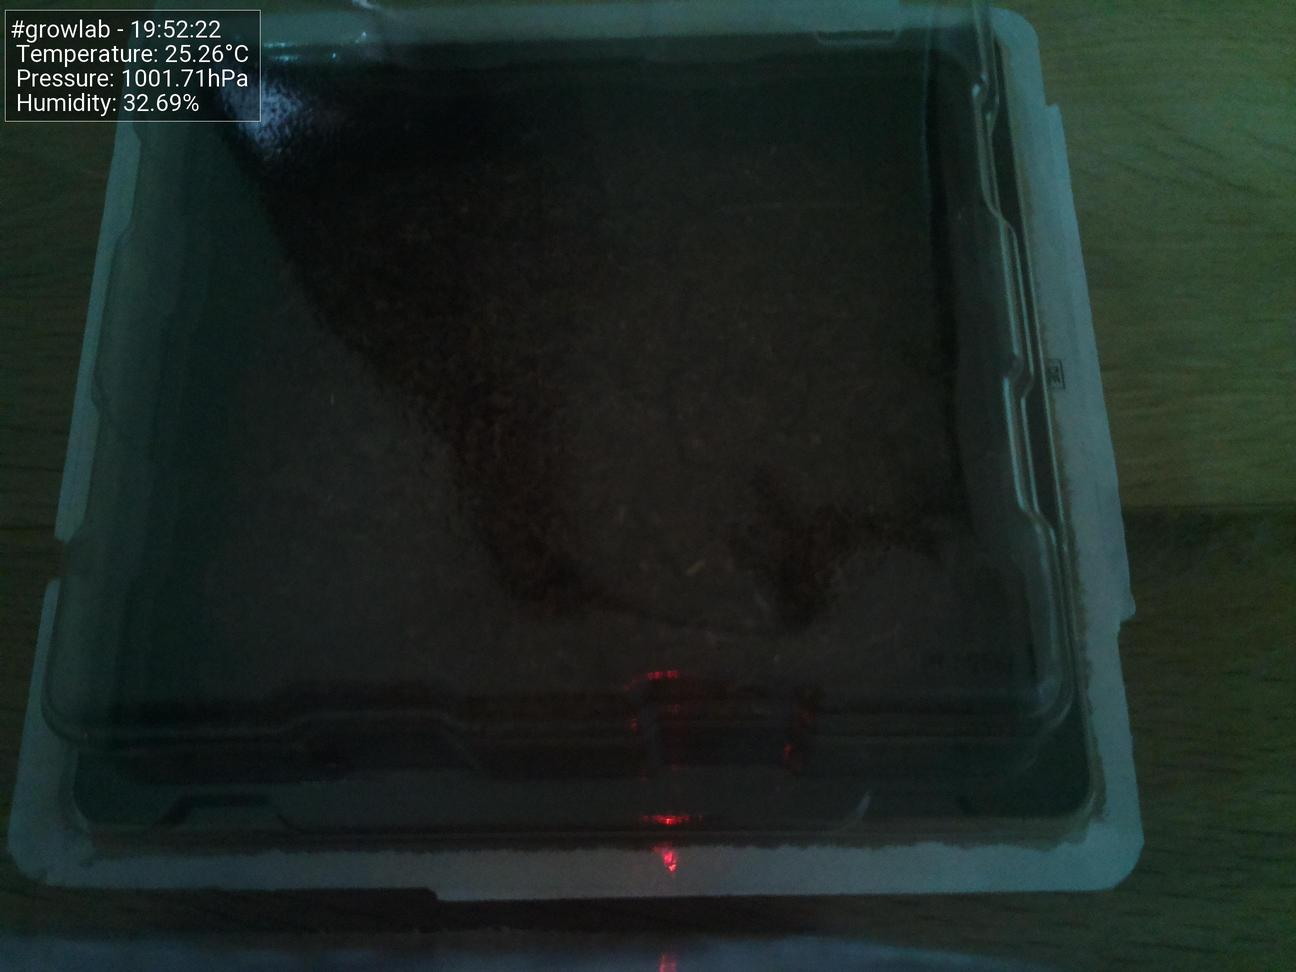
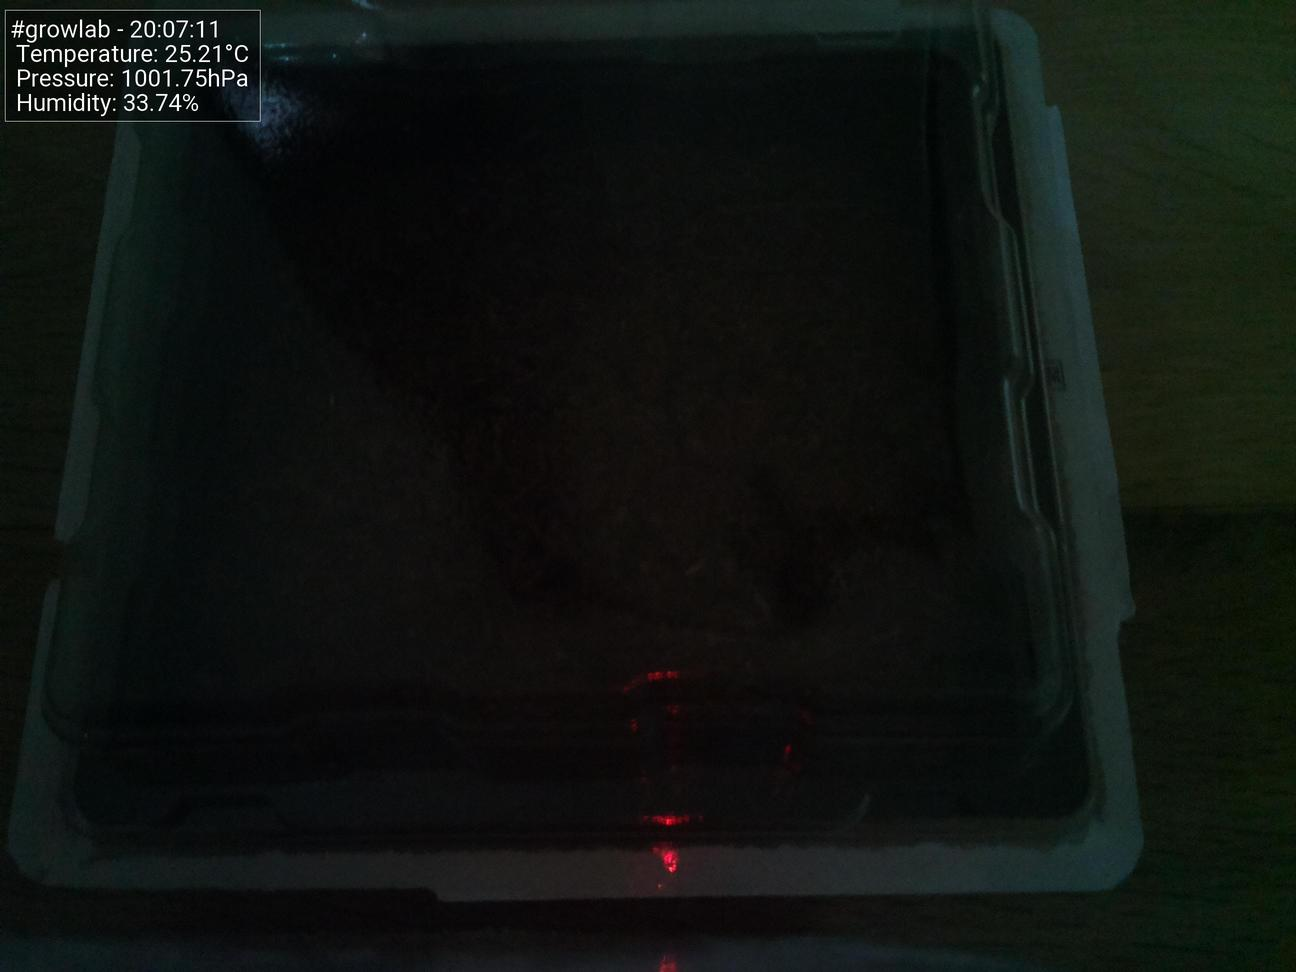
Update images at Tue 25 May 20:07:15 BST 2021

Changed region(s): [[0.0, 0.0, 1.0, 1.0]]

diff --git a/docs/index.html b/docs/index.html
@@ -47,19 +47,19 @@
                         <tbody>
                             <tr>
                                 <td>Time</td>
-                                <td>19:52:22</td>
+                                <td>20:07:11</td>
                             </tr>
                             <tr>
                                 <td>Temperature</td>
-                                <td>25.26°C</td>
+                                <td>25.21°C</td>
                             </tr>
                             <tr>
                                 <td>Humidity</td>
-                                <td>32.69%</td>
+                                <td>33.74%</td>
                             </tr>
                             <tr>
                                 <td>Pressure</td>
-                                <td>1001.71hPa</td>
+                                <td>1001.75hPa</td>
                             </tr>
                         </tbody>
                     </table>
@@ -67,7 +67,7 @@
 
                 <h5>Latest image</h5>
                 <div style="width: 85%;">
-                            <img class="figure-img img-fluid rounded" src="./preview.jpg?uid=1621968746.7245216">
+                            <img class="figure-img img-fluid rounded" src="./preview.jpg?uid=1621969635.4995923">
                 </div>
             </div>
         </div>

diff --git a/html/index.html b/html/index.html
@@ -47,19 +47,19 @@
                         <tbody>
                             <tr>
                                 <td>Time</td>
-                                <td>19:52:22</td>
+                                <td>20:07:11</td>
                             </tr>
                             <tr>
                                 <td>Temperature</td>
-                                <td>25.26°C</td>
+                                <td>25.21°C</td>
                             </tr>
                             <tr>
                                 <td>Humidity</td>
-                                <td>32.69%</td>
+                                <td>33.74%</td>
                             </tr>
                             <tr>
                                 <td>Pressure</td>
-                                <td>1001.71hPa</td>
+                                <td>1001.75hPa</td>
                             </tr>
                         </tbody>
                     </table>
@@ -67,7 +67,7 @@
 
                 <h5>Latest image</h5>
                 <div style="width: 85%;">
-                            <img class="figure-img img-fluid rounded" src="./preview.jpg?uid=1621968746.7245216">
+                            <img class="figure-img img-fluid rounded" src="./preview.jpg?uid=1621969635.4995923">
                 </div>
             </div>
         </div>
